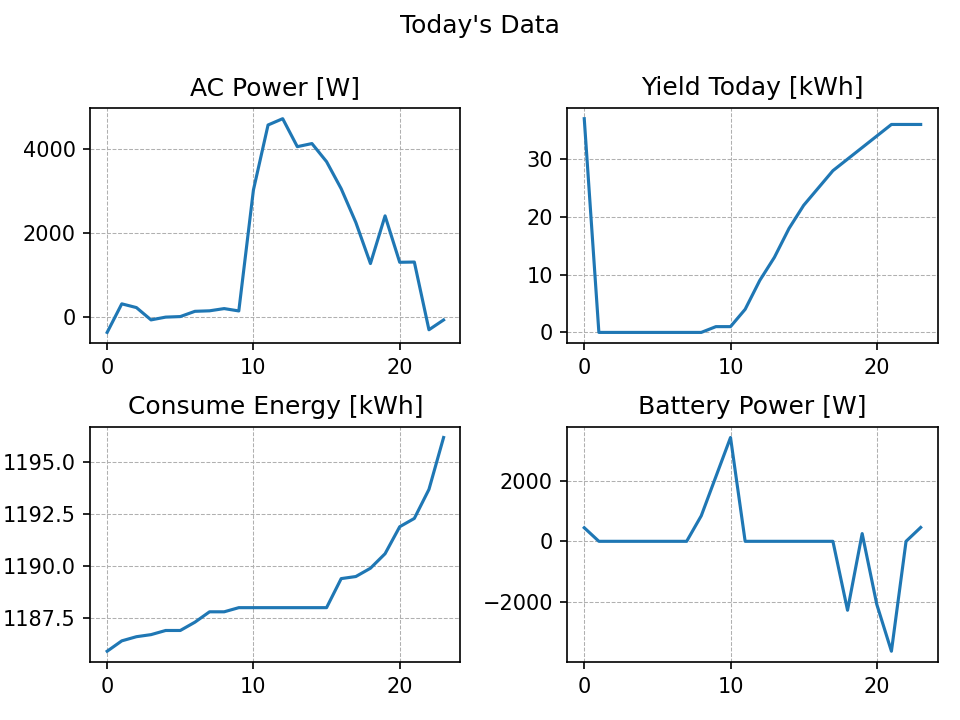
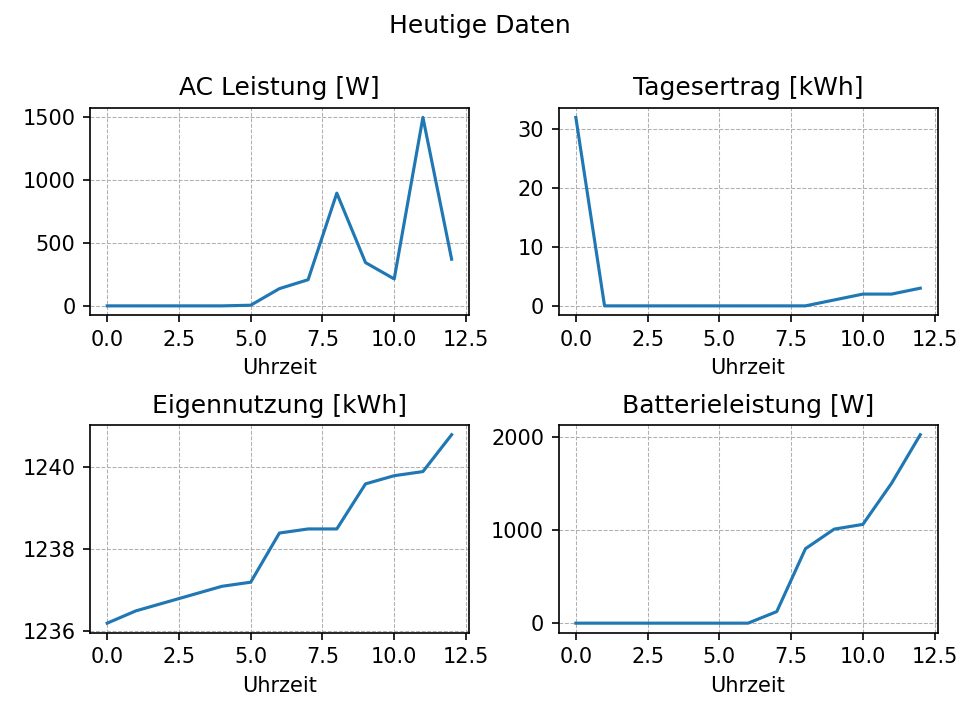
7 Tage Übersicht

diff --git a/plots/dailyplot.py b/plots/dailyplot.py
@@ -19,28 +19,34 @@ data = pandas.read_sql(sql, con)
 # AC Power
 plt.subplot(2, 2, 1)
 plt.plot(data.ac, label = "AC Power")
-plt.title("AC Power [W]")
+plt.title("AC Leistung [W]")
+plt.xlabel("Uhrzeit")
 plt.grid(linestyle = '--', linewidth = 0.5)
 
 # Yield Today
 plt.subplot(2, 2, 2)
 plt.plot(data.yieldtoday, label = "Yield Today")
-plt.title("Yield Today [kWh]")
+plt.title("Tagesertrag [kWh]")
+plt.xlabel("Uhrzeit")
 plt.grid(linestyle = '--', linewidth = 0.5)
 
 # Consume Energy
 plt.subplot(2, 2, 3)
 plt.plot(data.consume, label = "Consume Energy")
-plt.title("Consume Energy [kWh]")
+plt.title("Eigennutzung [kWh]")
+plt.xlabel("Uhrzeit")
 plt.grid(linestyle = '--', linewidth = 0.5)
 
 # Battery Power
 plt.subplot(2, 2, 4)
 plt.plot(data.batPower, label = "Battery Power")
-plt.title("Battery Power [W]")
+plt.title("Batterieleistung [W]")
+plt.xlabel("Uhrzeit")
 plt.grid(linestyle = '--', linewidth = 0.5)
 
+x_tick_labels = ['0 uhr', '1 Uhr', '2 Uhr', '3 Uhr', '4 Uhr', '5 Uhr', '6 Uhr', '7 Uhr', '8 Uhr', '9 Uhr', '10 Uhr', '11 Uhr', '12 Uhr', '13 Uhr', '14 Uhr', '15 Uhr', '16 Uhr', '17 Uhr', '18 Uhr', '19 Uhr', '20 Uhr', '21 Uhr', '22 Uhr', '23 Uhr']
 plt.tight_layout()
-plt.suptitle("Today's Data")
+#plt.set_xticklabels(x_tick_labels)
+plt.suptitle("Heutige Daten")
 plt.subplots_adjust(top=0.85)
 plt.savefig('/home/kiwi/project/plots/daily0.png', dpi=150)

diff --git a/plots/sevendays.py b/plots/sevendays.py
@@ -1,0 +1,44 @@
+import sqlite3, pandas, matplotlib.pyplot as plt
+
+con = sqlite3.connect("/home/kiwi/project/solar_data.db")
+
+sql =   """select
+                acpower as ac,
+                yieldtoday as yieldtoday,
+                consumeenergy as consume,
+                batPower
+            from
+                DOWNLOADED_SOLAX_INFO
+            where
+                date(time_of_request) between date(current_date, '-7 day') and current_date;
+             """
+data = pandas.read_sql(sql, con)
+
+# AC Power
+plt.subplot(2, 2, 1)
+plt.plot(data.ac, label = "AC Power")
+plt.title("AC Power [W]")
+plt.grid(linestyle = '--', linewidth = 0.5)
+
+# Yield Today
+plt.subplot(2, 2, 2)
+plt.plot(data.yieldtoday, label = "Yield Today")
+plt.title("Yield Today [kWh]")
+plt.grid(linestyle = '--', linewidth = 0.5)
+
+# Consume Energy
+plt.subplot(2, 2, 3)
+plt.plot(data.consume, label = "Consume Energy")
+plt.title("Consume Energy [kWh]")
+plt.grid(linestyle = '--', linewidth = 0.5)
+
+# Battery Power
+plt.subplot(2, 2, 4)
+plt.plot(data.batPower, label = "Battery Power")
+plt.title("Battery Power [W]")
+plt.grid(linestyle = '--', linewidth = 0.5)
+
+plt.tight_layout()
+plt.suptitle("Today's Data")
+plt.subplots_adjust(top=0.85)
+plt.savefig('/home/kiwi/project/plots/seven0.png', dpi=150)
